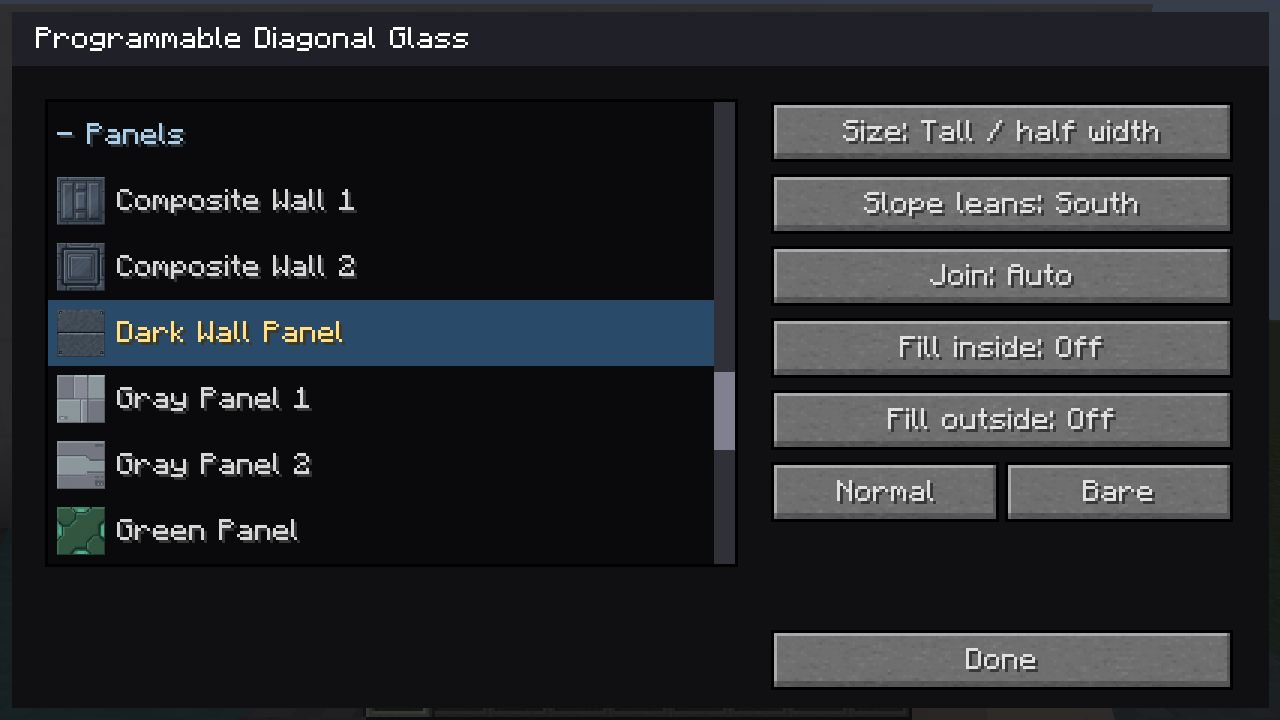
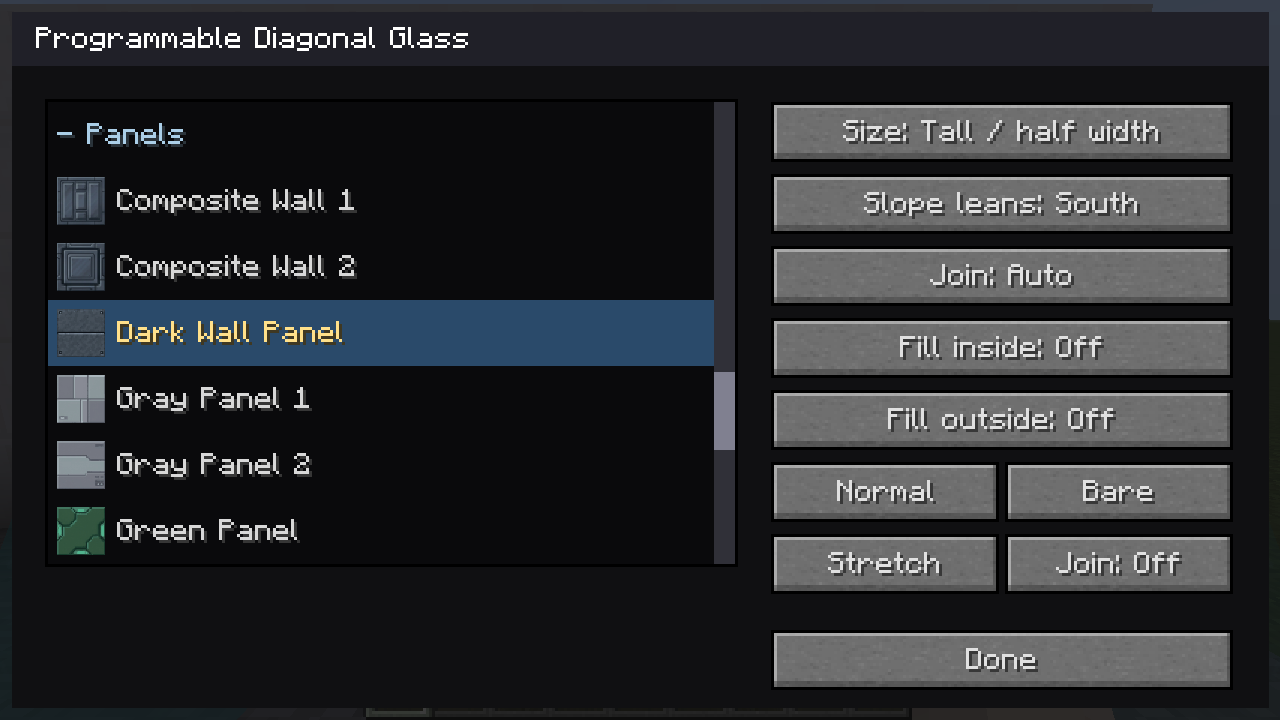
Document joined material layouts and porthole glass controls

Changed region(s): [[0.5938, 0.7333, 0.9688, 0.825]]

diff --git a/docs/gallery/building.md b/docs/gallery/building.md
@@ -137,6 +137,12 @@ Storage materials use their front artwork on ordinary blocks; [Programmable Stor
 
 Portholes offer **Round**, **Hexagon**, **Octagon**, and **Square** openings, glass shade, and **Join**. Joining merges eligible neighboring portholes into a larger window. The wall form is thin; the block form fills the entire block depth.
 
+Programmable Porthole Wall, Programmable Diagonal Porthole and the full-depth Porthole Block have separate **Main**, **Side** and **Glass** texture tabs. Glass offers the same nineteen glass finishes and normal material catalog as Programmable Glass, including trapdoor artwork. **Tint** selects Mild, Normal or Strong glass intensity; for non-glass artwork it selects 35%, 65% or 100% opacity. Main and Side keep their own textures. With **Join** on, **Stretch** fits one image across the joined window opening, while **Tile** repeats artwork per block. Layout controls appear only for non-glass choices.
+
+| Porthole glass colors | Diagonal porthole materials |
+| --- | --- |
+| ![Porthole Glass tab with all glass colors and tint strength](../images/gallery/building/porthole-glass-settings.png) | ![Diagonal porthole Glass tab with regular materials, tint and Stretch](../images/gallery/building/diagonal-porthole-glass-settings.png) |
+
 | Finish group | Close-up |
 | --- | --- |
 | Hull | ![Hull finishes](../images/gallery/building/hull.png) |
@@ -152,7 +158,19 @@ Programmable Glass provides Small or Large detail, nineteen finishes in one **Gl
 
 For example, use Cyan with Mild tint and Bare edges for a clear cockpit canopy, or Dark Grey with Strong tint and Framed edges for a screened observation wall. Tint changes the color overlay opacity while retaining the reflection artwork. Strong uses a 40.5% color overlay for dye colors (Normal 30%, Mild 12%), so the stronger finish remains translucent. Clear has no color overlay, so its three strengths look identical.
 
-For regular materials, Tint controls the artwork opacity instead: **Mild 35%**, **Normal 65%**, **Strong 100%**. Strong makes the panel opaque; texture cutouts remain cutouts. Select any entry in the Glass category to restore the original glass finish. Material selection persists through saves, creative pick-block, configured crafting and Taxi Mode. The Duplifier's **Glass Material** option copies it independently of shade and tint.
+For regular materials, Tint controls the artwork opacity instead: **Mild 35%**, **Normal 65%**, **Strong 100%**. Strong makes the panel opaque; texture cutouts remain cutouts. Select any entry in the Glass category to restore the original glass finish. Material selection persists through saves, creative pick-block, configured crafting and Taxi Mode. The Duplifier's **Glass Material / Layout** option copies it independently of shade and tint.
+
+For non-glass choices, **Texture: Tile / Stretch** controls the artwork across joined panels. Tile repeats once per block. Stretch fits one image across a rectangle of matching, coplanar panels. Programmable Glass uses its existing **Join** setting; Diagonal Glass has a material-only **Join** control beside Tile/Stretch, independent of its geometric corner/junction selector. Join Off keeps artwork local to each block. Matching groups use the same material, tint, layout and surface plane; gaps partition a group into complete rectangles. Original glass finishes retain their existing reflection and tint mapping, and never use this layout setting.
+
+Each comparison shows **Stretch on the left** and **Tile on the right**, with Strong tint and joined 3 × 2 surfaces. Portholes stretch the window artwork independently of the surrounding main texture.
+
+| Glass panels | Diagonal glass panels |
+| --- | --- |
+| ![Joined regular panels comparing Stretch and Tile](../images/gallery/building/glass-joined-tile-stretch.png) | ![Joined diagonal panels comparing Stretch and Tile](../images/gallery/building/diagonal-glass-joined-tile-stretch.png) |
+
+| Porthole windows | Diagonal porthole windows |
+| --- | --- |
+| ![Joined porthole windows comparing Stretch and Tile](../images/gallery/building/porthole-joined-tile-stretch.png) | ![Joined diagonal porthole windows comparing Stretch and Tile](../images/gallery/building/diagonal-porthole-joined-tile-stretch.png) |
 
 ![Regular panels in front and diagonal panels behind, with Mild, Normal and Strong material tint from left to right](../images/gallery/building/glass-material-opacity.png)
 

diff --git a/docs/space-doors.md b/docs/space-doors.md
@@ -111,6 +111,8 @@ Observation metal and glass use separate opaque/cutout and translucent passes.
 Programmable Glass selects Small or Large detail, a glass finish, Mild / Normal / Strong tint, and Bare / Framed edges in its settings menu. Programmable Diagonal Glass exposes the same tint and frame choices alongside its diagonal geometry controls.
 
 Both glass blocks include the regular material catalog in the same list. For these materials, Mild and Normal Tint use 35% and 65% opacity; Strong is fully opaque. The original Glass category retains its existing translucent finishes.
+
+Non-glass materials also offer Tile/Stretch across matching joined panels. Porthole Wall, Diagonal Porthole and Porthole Block expose the same glass/material catalog and tint controls in a separate Glass tab; their Main and Side textures remain independent. See the [building gallery](gallery/building.md#selected-close-ups-and-glass) for joined material examples and layout rules.
 The glass shade is selected independently for each size. The thick inside faces
 use the former Observation Glass metal texture; the front and rear keep their
 original finish. Framed diagonal glass has a closed one-pixel metal rim on both faces and along exposed top, bottom and side edges; connected edges share the outer perimeter. Bare hides the perimeter frame. Both frame and shimmer use the selected native tier. Mixed

diff --git a/docs/DUPLIFIER.md b/docs/DUPLIFIER.md
@@ -61,7 +61,7 @@ still applies settings to the crafted item.
 | Wall Texture | Programmable block, slab, stairs, wall, porthole, trapdoor, display housing, light housing, trigger off finish, and propulsion side finish. All use the ordered `ScreenHousingTextures` list. |
 | Redstone Channel | Every configured block that implements `RedstoneChannelMember`. |
 | Frame / Glass Tint | Regular and diagonal programmable glass preserve Bare / Framed and Mild / Normal / Strong independently. |
-| Glass Material | Copy the selected glass or regular panel material between canopies, visors and regular/diagonal programmable glass. Tint controls regular glass-block material opacity independently. |
+| Glass Material / Layout | Copy the selected glass or regular panel material between canopies, visors, regular/diagonal programmable glass and portholes. Glass blocks and portholes also preserve Tile/Stretch and material joining; shade and tint remain independent options. Porthole Main and Side textures use their usual separate options. |
 | Join | Portholes, Programmable Glass, Programmable Light, connected propulsion blocks, and Luxury/Military Seats. |
 | Trigger | Programmable Light, Door and Trapdoor support Disabled, Redstone ON, and Redstone OFF. Displays support Disabled and Redstone ON. |
 | Active | Manual light state, propulsion state, and switch or lever latch. |

diff --git a/docs/gallery/version-2.0.md b/docs/gallery/version-2.0.md
@@ -39,6 +39,8 @@ The **Duplifier** transfers glass shade and intensity between canopy pieces, vis
 
 **Programmable Glass** and **Programmable Diagonal Glass** also accept the regular material catalog from the same texture list. Turn panel artwork into a translucent screen with Mild or Normal Tint, or select Strong for opaque surfaces. Material choices follow configured items and Duplifier copies across glass and canopy families.
 
+Join non-glass panels to stretch a single image across a larger surface, or tile artwork at block scale. **Programmable Porthole** and **Diagonal Porthole** add a separate **Glass** tab beside Main and Side, with all glass colors, regular textures, tint strength and the same Tile/Stretch choice for joined window artwork. Full-depth portholes share these controls.
+
 ## Moving stairs and better everyday building
 
 Programmable Ramp gains **Escalator Up** and **Escalator Down** modes. The extended treads carry riders, respond to redstone and sleep when nobody is nearby. Curved profiles and moving walkways use the same controller settings. Capturing an extended ramp preserves its actual segments and source materials; escalators pause while driving and resume after parking.
